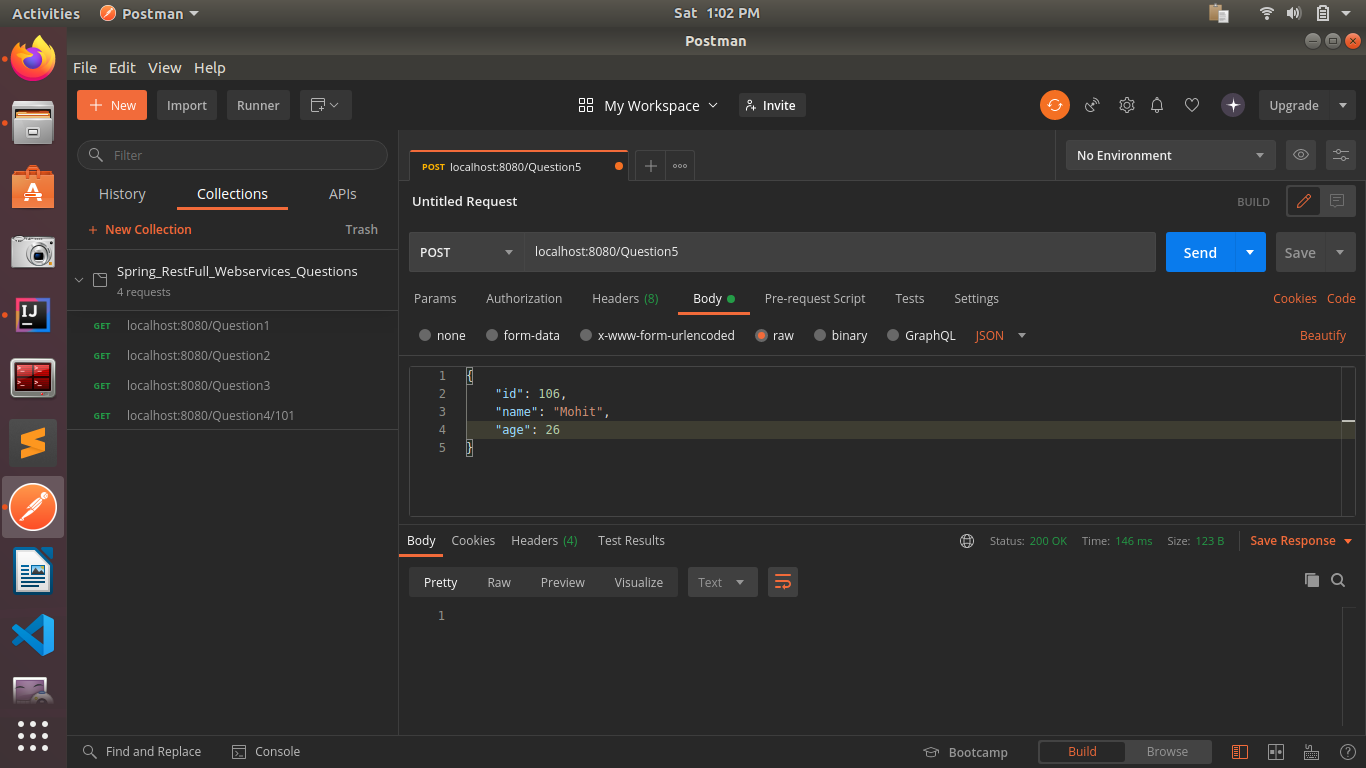
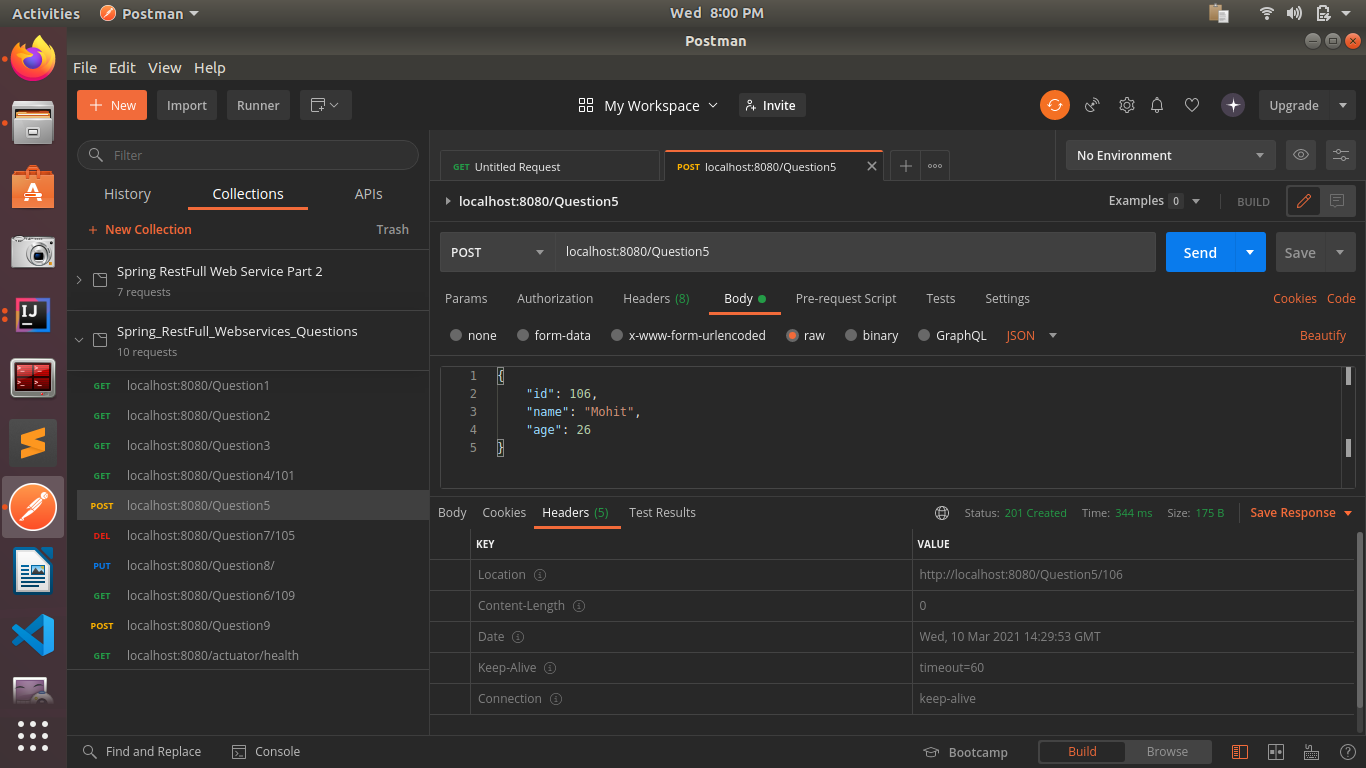
Updated Questions

diff --git a/springRestFullServiceQuestions/src/main/java/dabral/rajdeep/springRestFullServiceQuestions/EmployeeController.java b/springRestFullServiceQuestions/src/main/java/dabral/rajdeep/springRestFullServiceQuestions/EmployeeController.java
@@ -3,11 +3,16 @@ package dabral.rajdeep.springRestFullServiceQuestions;
 import dabral.rajdeep.springRestFullServiceQuestions.employee.Employee;
 import dabral.rajdeep.springRestFullServiceQuestions.employee.EmployeeDaoService;
 import org.springframework.beans.factory.annotation.Autowired;
+import org.springframework.http.ResponseEntity;
 import org.springframework.web.bind.annotation.*;
+import org.springframework.web.servlet.support.ServletUriComponentsBuilder;
 
 
 import javax.validation.Valid;
+import java.net.URI;
 import java.util.List;
+
+import static org.springframework.http.ResponseEntity.created;
 
 @RestController
 public class EmployeeController {
@@ -53,8 +58,13 @@ public class EmployeeController {
     5. Implement POST http request for Employee to create a new employee.
     */
     @PostMapping("/Question5")
-    public void createEmployee(@RequestBody Employee employee){
-        System.out.println("Is Employee Added :  " +employeeDaoService.createEmployee(employee));
+    public ResponseEntity<Employee> createEmployee(@RequestBody Employee employee){
+        Employee employeeTemp =employeeDaoService.createEmployee(employee);
+        URI location=ServletUriComponentsBuilder
+                .fromCurrentRequest()
+                .path("/{id}")
+                .buildAndExpand(employeeTemp.getId()).toUri();
+        return ResponseEntity.created(location).build();
     }
 
     /*

diff --git a/springRestFullServiceQuestions/src/main/java/dabral/rajdeep/springRestFullServiceQuestions/CustomException.java b/springRestFullServiceQuestions/src/main/java/dabral/rajdeep/springRestFullServiceQuestions/CustomException.java
@@ -1,0 +1,27 @@
+package dabral.rajdeep.springRestFullServiceQuestions;
+
+import dabral.rajdeep.springRestFullServiceQuestions.employee.UserNotFoundException;
+import org.springframework.http.HttpStatus;
+import org.springframework.http.ResponseEntity;
+import org.springframework.web.bind.annotation.ControllerAdvice;
+import org.springframework.web.bind.annotation.ExceptionHandler;
+import org.springframework.web.bind.annotation.RestController;
+import org.springframework.web.context.request.WebRequest;
+import org.springframework.web.servlet.mvc.method.annotation.ResponseEntityExceptionHandler;
+
+import java.util.Date;
+
+@ControllerAdvice
+@RestController
+public class CustomException extends ResponseEntityExceptionHandler {
+    @ExceptionHandler(Exception.class)
+    public final ResponseEntity<Object> handleAllExceptions(Exception e, WebRequest request){
+      ExceptionResponse exceptionResponse = new ExceptionResponse(new Date(), e.getMessage());
+        return new ResponseEntity(exceptionResponse , HttpStatus.INTERNAL_SERVER_ERROR);
+    }
+    @ExceptionHandler(UserNotFoundException.class)
+    public final ResponseEntity<Object> handleUserNotFoundExceptions(Exception e, WebRequest request){
+        UserNotFoundException exceptionResponse = new UserNotFoundException(e.getMessage());
+        return new ResponseEntity(exceptionResponse , HttpStatus.NOT_FOUND);
+    }
+}

diff --git a/springRestFullServiceQuestions/src/main/java/dabral/rajdeep/springRestFullServiceQuestions/employee/EmployeeDaoService.java b/springRestFullServiceQuestions/src/main/java/dabral/rajdeep/springRestFullServiceQuestions/employee/EmployeeDaoService.java
@@ -27,9 +27,9 @@ public class EmployeeDaoService {
         }
         return null;
     }
-    public Boolean  createEmployee(Employee employee){
+    public Employee  createEmployee(Employee employee){
         list.add(employee);
-        return true;
+        return employee;
     }
    public Boolean deleteEmployeeById(int id){
        Employee employeeTemp=null;
@@ -41,7 +41,7 @@ public class EmployeeDaoService {
                return true;
            }
        }
-       return false;
+       throw new UserNotFoundException("Record not found");
    }
 
     public boolean updateEmployee(Employee employee) {
@@ -57,12 +57,12 @@ public class EmployeeDaoService {
         return  false;
     }
 
-    public Employee getEmployeeException(int id) throws CustomException {
+    public Employee getEmployeeException(int id) throws UserNotFoundException {
         for (Employee employee : list) {
             if (id == employee.getId()) {
                 return employee;
             }
         }
-        throw new CustomException("Record not found");
+        throw new UserNotFoundException("Record not found");
     }
 }

diff --git a/springRestFullServiceQuestions/src/main/java/dabral/rajdeep/springRestFullServiceQuestions/ExceptionResponse.java b/springRestFullServiceQuestions/src/main/java/dabral/rajdeep/springRestFullServiceQuestions/ExceptionResponse.java
@@ -1,0 +1,26 @@
+package dabral.rajdeep.springRestFullServiceQuestions;
+
+import java.util.Date;
+
+public class ExceptionResponse {
+    private Date date;
+    private String errorMessage;
+
+    public ExceptionResponse(Date date, String errorMessage) {
+        this.date = date;
+        this.errorMessage = errorMessage;
+    }
+
+    public Date getDate() {
+        return date;
+    }
+    public void setDate(Date date) {
+        this.date = date;
+    }
+    public String getErrorMessage() {
+        return errorMessage;
+    }
+    public void setErrorMessage(String errorMessage) {
+        this.errorMessage = errorMessage;
+    }
+}

diff --git a/springRestFullServiceQuestions/src/main/java/dabral/rajdeep/springRestFullServiceQuestions/employee/UserNotFoundException.java b/springRestFullServiceQuestions/src/main/java/dabral/rajdeep/springRestFullServiceQuestions/employee/UserNotFoundException.java
@@ -4,8 +4,8 @@ import org.springframework.http.HttpStatus;
 import org.springframework.web.bind.annotation.ResponseStatus;
 
 @ResponseStatus(HttpStatus.NOT_FOUND)
-class CustomException extends RuntimeException {
-   public CustomException(String errorMessage) {
-      super(errorMessage);
+public class UserNotFoundException extends RuntimeException {
+   public UserNotFoundException(String errorMessage) {
+      super(errorMessage ,null, false ,false);
    }
 }
